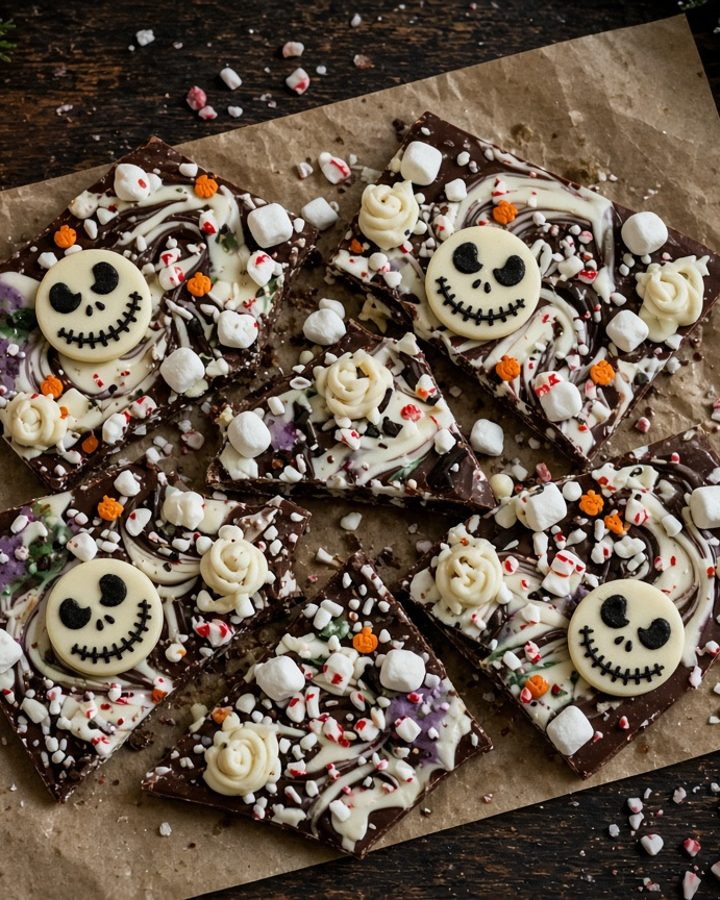
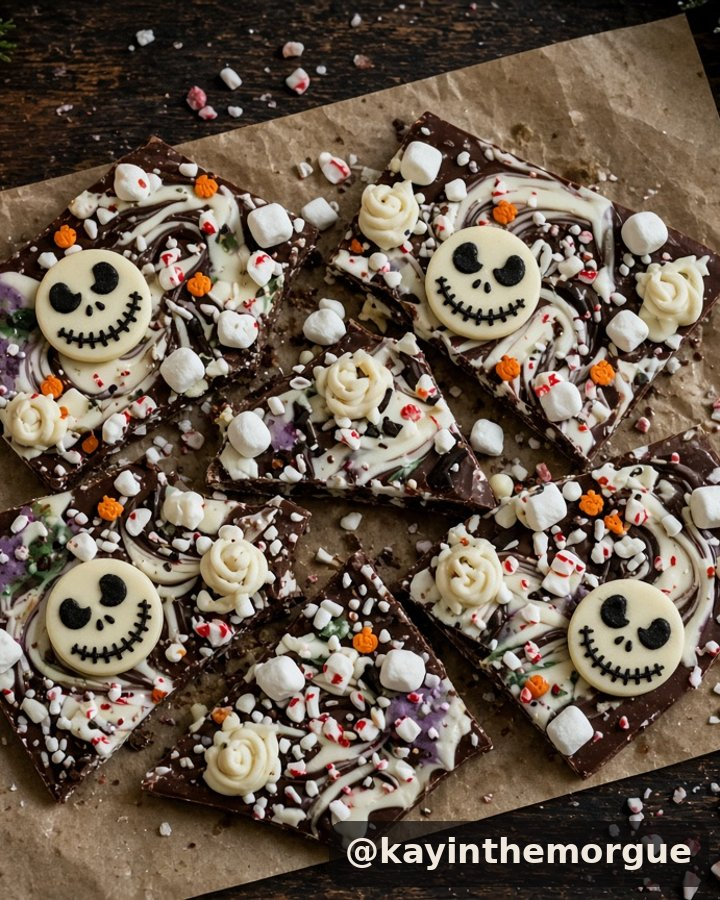
Add the new recipes and drop the platform line (#2)
* Use real bark photos and credit @kayinthemorgue

Hot cocoa bark and Nightmare Before Christmas bark now use the watermarked photos. Her handle links to X, and the Restaurant Clicks credit stays in the hot cocoa note.

* Add cilantro garlic infused oil to Remedies

The pasted recipe has no source link and no photo, so it uses the placeholder. The botulism note is a warning callout, and the online name is shown as a subtitle.

* Add the immunity booster remedy

Kayy's own photo, her notes as the credit, and a warning to refrigerate it and keep raw honey away from babies.

* Add the grapefruit lemon ginger tea

Kayy's photo, her notes as the credit, and a warning about the bitterness and grapefruit with medication. The steps stop at the tea itself.

* Remove the platform list from the homepage

The hero no longer names Instagram, X, TikTok, and Pinterest. Each recipe still links to its own original post.

---------

Changed region(s): [[0.4583, 0.9022, 0.9778, 0.9956]]

diff --git a/test.js b/test.js
@@ -19,7 +19,7 @@ function assert(cond, msg) {
 const ids = [
   "plantain-balls", "pastel", "lasagna", "wedges", "potato-salad",
   "guts-rolls", "ghostface", "sausage-ghosts", "magic-mouthwash",
-  "hot-cocoa-bark", "nightmare-bark"
+  "hot-cocoa-bark", "nightmare-bark", "cilantro-garlic-oil", "immunity-booster", "citrus-ginger-tea"
 ];
 assert(recipes.map((r) => r.id).join(",") === ids.join(","), "recipe order");
 assert(categoriesOf(recipes).join("|") === "Mains|Sides & snacks|Halloween|Remedies|Christmas", "categories come from data, in first-seen order");
@@ -30,7 +30,7 @@ assert(extra[extra.length - 1] === "Midnight snack", "a new category is picked u
 function idsMatching(cat, q) {
   return recipes.filter((r) => matchRecipe(r, cat, q)).map((r) => r.id);
 }
-assert(idsMatching("All", "").length === 11, "all recipes");
+assert(idsMatching("All", "").length === 14, "all recipes");
 assert(idsMatching("All", "plantain").join(",") === "plantain-balls,lasagna", "plantain is name/ingredient only");
 assert(idsMatching("Halloween", "plantain").length === 0, "category and search combine");
 assert(idsMatching("All", "straw").length === 0, "steps are not searched");
@@ -41,18 +41,21 @@ assert(idsMatching("All", "  letkadocook ").join(",") === "lasagna", "creator se
 assert(idsMatching("Mains", "").length === 3, "mains count");
 assert(idsMatching("Christmas", "").join(",") === "hot-cocoa-bark,nightmare-bark", "christmas");
 assert(idsMatching("All", "marshmallow").join(",") === "hot-cocoa-bark,nightmare-bark", "marshmallow");
-assert(idsMatching("All", "Restaurant").join(",") === "hot-cocoa-bark", "creator Restaurant Clicks");
+assert(idsMatching("All", "Restaurant").length === 0, "restaurant credit stays in the note, not search");
+assert(idsMatching("All", "kayinthemorgue").join(",") === "hot-cocoa-bark,nightmare-bark", "both barks credit her handle");
 assert(idsMatching("Christmas", "jack").join(",") === "nightmare-bark", "jack faces ingredient");
+assert(idsMatching("Remedies", "").join(",") === "magic-mouthwash,cilantro-garlic-oil,immunity-booster,citrus-ginger-tea", "remedies");
+assert(idsMatching("All", "detox").join(",") === "cilantro-garlic-oil", "alt name is searchable");
+assert(idsMatching("All", "botulism").length === 0, "warning note is not searched");
 
-const photoIds = ids.filter((id) => id !== "hot-cocoa-bark");
-for (const id of photoIds) {
+const withPhotos = ids.filter((id) => id !== "cilantro-garlic-oil");
+for (const id of withPhotos) {
   const file = path.join(root, "photos", id + ".jpg");
   assert(fs.existsSync(file), "photo " + id);
   const buf = fs.readFileSync(file);
   assert(buf.readUInt16BE(0) === 0xffd8, id + " is jpeg");
 }
-assert(!fs.existsSync(path.join(root, "photos", "hot-cocoa-bark.jpg")), "hot cocoa has no photo on purpose");
-
+assert(!fs.existsSync(path.join(root, "photos", "cilantro-garlic-oil.jpg")), "oil has no photo yet");
 const png = fs.readFileSync(path.join(root, "dist", "placeholder.png"));
 assert(png.readUInt32BE(16) === 720 && png.readUInt32BE(20) === 900, "placeholder is 720x900");
 
@@ -62,31 +65,67 @@ for (const recipe of recipes) {
   assert(index.includes(recipe.name), "name on home " + recipe.id);
 }
 assert(index.includes("Christmas"), "christmas chip");
-assert(index.includes(">All <span class=\"n\">11</span>"), "all count");
+assert(index.includes(">All <span class=\"n\">14</span>"), "all count");
+assert(index.includes(">Remedies <span class=\"n\">4</span>"), "remedies count");
 assert(index.includes("Sides &amp; snacks"), "ampersand escaped");
-assert(index.includes("/placeholder.png"), "placeholder used on the grid");
+assert(index.includes("/photos/hot-cocoa-bark.jpg"), "hot cocoa photo on the grid");
 assert(index.includes("/photos/nightmare-bark.jpg"), "nightmare photo on the grid");
-assert(index.includes("Concept image"), "concept badge");
-assert(index.includes("Photo to come"), "missing-photo badge");
+assert(!index.includes("Concept image"), "concept caption stays off the barks");
+assert(index.includes("Photo to come"), "oil uses the placeholder caption");
+assert(index.includes("Heavy metal detox oil"), "alt name on the card");
+assert(index.includes('href="https://x.com/kayinthemorgue"'), "handle links to X");
 assert(!/kaysmorgue\.art|art\.art/i.test(index), "home does not reference the art sites");
+assert(!/TikTok|Pinterest/.test(index), "homepage has no platform list");
 
 const cocoa = fs.readFileSync(path.join(root, "dist", "r", "hot-cocoa-bark.html"), "utf8");
+assert(cocoa.includes("Adapted from Restaurant Clicks."), "restaurant credit kept in the note");
 assert(cocoa.includes("Girl Scouts"), "hot cocoa note");
 assert(cocoa.includes("9x13 pan"), "hot cocoa serves");
 assert(cocoa.includes("(estimate) Chill"), "estimate step kept");
-assert(cocoa.includes("/placeholder.png"), "hot cocoa uses placeholder");
-assert(cocoa.includes("Photo to come"), "hot cocoa caption");
+assert(cocoa.includes("/photos/hot-cocoa-bark.jpg"), "hot cocoa uses its photo");
+assert(!cocoa.includes("Photo to come") && !cocoa.includes("/placeholder.png"), "placeholder caption is gone");
+assert(cocoa.includes('class="who" href="https://x.com/kayinthemorgue"'), "hot cocoa creator links to X");
 assert(!cocoa.includes("Original on"), "no source button without a url");
 assert(cocoa.includes('data-copy="/r/hot-cocoa-bark"'), "copy link");
 
 const nightmare = fs.readFileSync(path.join(root, "dist", "r", "nightmare-bark.html"), "utf8");
 assert(nightmare.includes("/photos/nightmare-bark.jpg"), "nightmare photo");
-assert(nightmare.includes("Concept image"), "concept caption");
+assert(!nightmare.includes("Concept image"), "concept caption removed");
+assert(nightmare.includes('class="who" href="https://x.com/kayinthemorgue"'), "nightmare creator links to X");
 assert(nightmare.includes("stitched grins"), "nightmare step");
 assert(nightmare.includes("Original recipe, amounts are estimates."), "nightmare note verbatim");
 assert(!nightmare.includes("Original on"), "nightmare has no source button");
 assert(nightmare.includes("og:image"), "og present");
 assert(nightmare.includes("https://kayys-cauldron.onrender.com/photos/nightmare-bark.jpg"), "absolute og image");
+
+const oil = fs.readFileSync(path.join(root, "dist", "r", "cilantro-garlic-oil.html"), "utf8");
+assert(oil.includes('class="note warn"'), "warning callout");
+assert(oil.includes("Fresh garlic and herbs in oil can grow botulism:"), "warning text");
+assert(oil.includes("Also shared as <span>Heavy metal detox oil</span>"), "alt name on the recipe");
+assert(oil.includes("Unknown source"), "unknown creator");
+assert(oil.includes("/placeholder.png") && oil.includes("Photo to come"), "placeholder photo");
+assert(!oil.includes("Original on"), "no source link");
+assert(oil.includes("refrigerate immediately"), "strain step");
+
+const booster = fs.readFileSync(path.join(root, "dist", "r", "immunity-booster.html"), "utf8");
+assert(booster.includes("/photos/immunity-booster.jpg"), "her photo");
+assert(booster.includes('class="note warn"'), "fridge warning callout");
+assert(booster.includes("Not for babies under 1 (raw honey)."), "honey warning kept");
+assert(booster.includes("Kayy's notes"), "creator is her notes");
+assert(booster.includes("quarter-sized piece of ginger (like the coin)"), "ginger line verbatim");
+assert(booster.includes("Add 1/2 cup of the boiled water (may be less depending on how much room is left in the jar)."), "last step verbatim");
+assert(!booster.includes("Original on"), "no source link");
+
+const tea = fs.readFileSync(path.join(root, "dist", "r", "citrus-ginger-tea.html"), "utf8");
+assert(tea.includes("/photos/citrus-ginger-tea.jpg"), "tea photo");
+assert(tea.includes("Respiratory / throat relief tea"), "tea name");
+assert(tea.includes("Grapefruit, lemon &amp; ginger"), "tea subtitle");
+assert(tea.includes('class="note warn"'), "medication warning callout");
+assert(tea.includes("check with a pharmacist if you take any."), "grapefruit warning kept");
+assert(tea.includes("Don't lift the lid while it boils."), "lid step verbatim");
+assert(tea.includes("Drink a shot glass 3-6 times a day as needed."), "serving step verbatim");
+assert(!/ivermectin|zinc|supplement/i.test(tea), "no supplement dosing");
+assert(!tea.includes("Original on"), "tea has no source link");
 assert(index.includes("<title>Kayy's Cauldron</title>"), "home title");
 assert(index.includes('og:site_name" content="Kayy\'s Cauldron"'), "og site name");
 assert(index.includes("KAYY'S <b>CAULDRON</b>"), "wordmark");

diff --git a/build.js b/build.js
@@ -77,8 +77,20 @@ function validate(recipes) {
   }
 }
 
+function creatorHref(creator) {
+  if (creator === "@kayinthemorgue") return "https://x.com/kayinthemorgue";
+  return "";
+}
+
+function creatorName(creator) {
+  const href = creatorHref(creator);
+  const text = escText(creator);
+  if (!href) return '<span class="who">' + text + "</span>";
+  return '<a class="who" href="' + escAttr(href) + '">' + text + "</a>";
+}
+
 function byline(recipe) {
-  const who = '<span class="who">' + escText(recipe.creator) + "</span>";
+  const who = creatorName(recipe.creator);
   if (!recipe.platform) return who;
   return who + ' <span class="on">on ' + escText(recipe.platform) + "</span>";
 }
@@ -159,14 +171,23 @@ function card(recipe, cats) {
   const badge = caption
     ? `<span class="badge" aria-hidden="true">${escText(caption)}</span>`
     : "";
-  return `<a class="card" href="/r/${recipe.id}" data-id="${escAttr(recipe.id)}" style="--c:${accentFor(recipe.cat, cats)}">
-  <span class="shot"><img src="${imagePath(recipe)}" width="720" height="900" alt="" loading="lazy" decoding="async">${badge}</span>
-  <span class="card-body">
-    <span class="cat">${escText(recipe.cat)}</span>
-    <span class="name">${escText(recipe.name)}</span>
-    <span class="by">${escText(recipe.creator)}</span>
-  </span>
-</a>`;
+  const href = creatorHref(recipe.creator);
+  const by = href
+    ? `<a class="by" href="${escAttr(href)}">${escText(recipe.creator)}</a>`
+    : `<span class="by">${escText(recipe.creator)}</span>`;
+  const akaLine = recipe.aka || recipe.subtitle;
+  const aka = akaLine ? `<span class="aka">${escText(akaLine)}</span>` : "";
+  return `<article class="card" data-id="${escAttr(recipe.id)}" style="--c:${accentFor(recipe.cat, cats)}">
+  <a class="card-link" href="/r/${recipe.id}">
+    <span class="shot"><img src="${imagePath(recipe)}" width="720" height="900" alt="" loading="lazy" decoding="async">${badge}</span>
+    <span class="card-body">
+      <span class="cat">${escText(recipe.cat)}</span>
+      <span class="name">${escText(recipe.name)}</span>
+      ${aka}
+    </span>
+  </a>
+  ${by}
+</article>`;
 }
 
 function homeMain(recipes, cats) {
@@ -189,7 +210,6 @@ function homeMain(recipes, cats) {
 
   return `<main id="main">
   <section class="hero">
-    <p class="eyebrow">Instagram · X · TikTok · Pinterest</p>
     <h1>Don't lose <em>another one</em>.</h1>
     <p class="lede">Recipes saved before the screenshots buried them. Sorted by category, photo still attached, original post one tap away.</p>
   </section>
@@ -217,8 +237,13 @@ function recipeMain(recipe, cats) {
   const caption = captionFor(recipe);
   const fig = caption ? `<figcaption>${escText(caption)}</figcaption>` : "";
   const note = recipe.note
-    ? `<aside class="note"><p class="note-k">Note</p><p>${escText(recipe.note)}</p></aside>`
+    ? `<aside class="note${recipe.warning ? " warn" : ""}"><p class="note-k">${recipe.warning ? "Warning" : "Note"}</p><p>${escText(recipe.note)}</p></aside>`
     : "";
+  const aka = recipe.aka
+    ? `<p class="aka">Also shared as <span>${escText(recipe.aka)}</span></p>`
+    : recipe.subtitle
+      ? `<p class="aka">${escText(recipe.subtitle)}</p>`
+      : "";
   const ingredients = recipe.ingredients.map((item) => `<li>${escText(item)}</li>`).join("");
   const steps = recipe.steps.map((item) => `<li>${escText(item)}</li>`).join("");
   const url = safeUrl(recipe.url);
@@ -236,12 +261,14 @@ function recipeMain(recipe, cats) {
       <div class="recipe-copy">
         <p class="cat">${escText(recipe.cat)}</p>
         <h1>${escText(recipe.name)}</h1>
+        ${aka}
         <p class="by">${byline(recipe)}</p>
+        ${recipe.warning ? note : ""}
         <dl class="facts">
           <div><dt>Makes</dt><dd>${escText(recipe.serves)}</dd></div>
           <div><dt>Time</dt><dd>${escText(recipe.time)}</dd></div>
         </dl>
-        ${note}
+        ${recipe.warning ? "" : note}
         <h2>Ingredients <span class="h-n">${recipe.ingredients.length}</span></h2>
         <ul class="ings">${ingredients}</ul>
         <h2>Steps <span class="h-n">${recipe.steps.length}</span></h2>
@@ -263,7 +290,10 @@ function recipeJsonLd(recipe, siteUrl) {
     "@type": "Recipe",
     name: recipe.name,
     image: [siteUrl + imagePath(recipe)],
-    author: { "@type": "Person", name: recipe.creator },
+    author: Object.assign(
+      { "@type": "Person", name: recipe.creator },
+      creatorHref(recipe.creator) ? { url: creatorHref(recipe.creator) } : {}
+    ),
     recipeYield: recipe.serves,
     recipeCategory: recipe.cat,
     recipeIngredient: recipe.ingredients,
@@ -297,7 +327,7 @@ function build() {
   fs.copyFileSync(path.join(root, "src", "favicon.svg"), path.join(dist, "favicon.svg"));
   fs.copyFileSync(path.join(root, "recipes.json"), path.join(dist, "recipes.json"));
 
-  const homeDescription = "Kayy's Cauldron. Dishes saved from Instagram, X, TikTok, and Pinterest, sorted by category, with the photo still attached.";
+  const homeDescription = "Kayy's Cauldron. Dishes saved from the feed, sorted by category, with the photo still attached.";
   const homeImage = siteUrl + "/photos/guts-rolls.jpg";
   fs.writeFileSync(path.join(dist, "index.html"), page({
     title: SITE_NAME,

diff --git a/src/styles.css b/src/styles.css
@@ -267,6 +267,24 @@ html.boot .grid { visibility: hidden; }
   box-shadow: inset 0 3px 0 var(--c, var(--line));
 }
 .card:hover { text-decoration: none; }
+.card-link {
+  display: flex;
+  flex-direction: column;
+  flex: 1;
+  min-width: 0;
+  color: inherit;
+  text-decoration: none;
+}
+.card-link:hover { color: inherit; text-decoration: none; }
+.card > .by {
+  margin: 0;
+  padding: 0 10px 12px;
+}
+.by a, a.by {
+  color: inherit;
+  text-decoration: none;
+}
+.by a:hover, a.by:hover { color: var(--bone); text-decoration: underline; }
 .shot {
   position: relative;
   display: block;
@@ -300,7 +318,7 @@ html.boot .grid { visibility: hidden; }
   display: flex;
   flex-direction: column;
   gap: 4px;
-  padding: 10px 10px 12px;
+  padding: 10px 10px 4px;
 }
 .cat {
   display: flex;
@@ -420,6 +438,22 @@ html.boot .grid { visibility: hidden; }
   letter-spacing: .14em;
   text-transform: uppercase;
 }
+.note.warn {
+  background: #2a1210;
+  border: 1px solid #6e2a24;
+  border-left: 4px solid var(--blood);
+  box-shadow: 0 0 22px #e23b2e22;
+  color: #fff4f0;
+  font-size: 16px;
+}
+.note.warn .note-k { color: #ff6b5c; }
+.aka {
+  margin: 6px 0 0;
+  color: var(--dim);
+  font: 400 13px/1.4 var(--mono);
+}
+.aka span, .card .aka { color: var(--bone); }
+.card .aka { margin: 0; font-size: 12px; }
 
 .recipe h2 {
   margin: 26px 0 4px;
@@ -579,7 +613,8 @@ html.boot .grid { visibility: hidden; }
   main { padding-top: 28px; }
   .lede { font-size: 14px; }
   .badge { font-size: 10px; left: 10px; bottom: 10px; }
-  .card-body { padding: 12px 14px 14px; }
+  .card-body { padding: 12px 14px 4px; }
+  .card > .by { padding: 0 14px 14px; }
   .name { font-size: 16px; }
   .actions { flex-direction: row; }
   .actions .btn { width: auto; flex: 1; }

diff --git a/src/filter.js b/src/filter.js
@@ -2,8 +2,9 @@
 // so these function declarations are visible to app.js.
 
 function recipeHaystack(recipe) {
-  return [recipe.name, recipe.creator]
+  return [recipe.name, recipe.aka, recipe.subtitle, recipe.creator]
     .concat(recipe.ingredients || [])
+    .filter(Boolean)
     .join("\n")
     .toLowerCase();
 }

diff --git a/README.md b/README.md
@@ -36,12 +36,15 @@ Categories are not listed anywhere in the code. Filter chips are whatever shows 
 | `id` | yes | URL slug. Lowercase letters, numbers, and dashes. This is also the photo file name. |
 | `name` | yes | The dish name, as you want it shown. |
 | `cat` | yes | Category label. Reuse one (`Mains`, `Sides & snacks`, `Halloween`, `Remedies`, `Christmas`) or type a new one. |
-| `creator` | yes | Who it's from. A handle, a name, or `Kayy` for an original. |
+| `creator` | yes | Who it's from. `@kayinthemorgue` links to [her X profile](https://x.com/kayinthemorgue). |
 | `platform` | no | `Instagram`, `X`, `TikTok`, `Pinterest`, and so on. Leave it off if there isn't one. |
 | `url` | no | Link to the original post. Leave it off, or use an empty string, and the "Original on …" button is hidden. |
 | `serves` | yes | How much it makes. |
 | `time` | yes | How long it takes, in plain language. |
 | `note` | no | Estimates, warnings, or anything she should see before cooking. |
+| `warning` | no | Set to `true` and the note renders as a warning callout above the recipe. |
+| `aka` | no | Alternate name. Shown as "Also shared as …", and included in search. |
+| `subtitle` | no | Short line under the title, such as the fruit in a tea. Included in search. |
 | `imageCaption` | no | Small label on the photo, such as `Concept image`. |
 | `ingredients` | yes | Array of strings. Don't rewrite them; the page prints each string as-is. |
 | `steps` | yes | Array of strings, in order. Same rule. |
@@ -53,7 +56,7 @@ Example, with no post to link and no photo yet:
   "id": "hot-cocoa-bark",
   "name": "Hot cocoa bark",
   "cat": "Christmas",
-  "creator": "Restaurant Clicks",
+  "creator": "@kayinthemorgue",
   "serves": "~24 pieces (9x13 pan)",
   "time": "15 min + 30 min chill",
   "note": "Optional note.",
